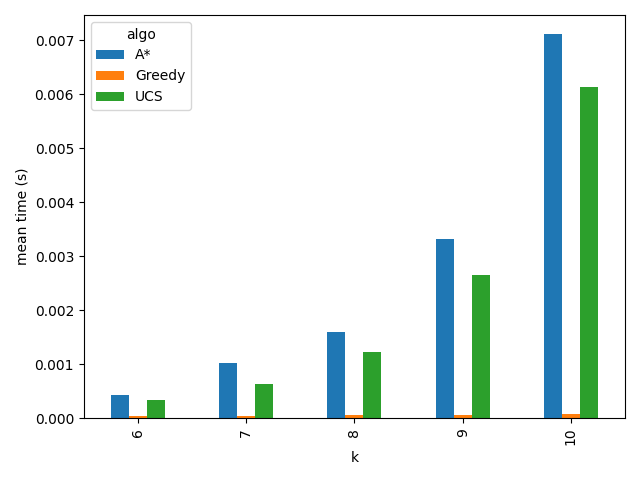
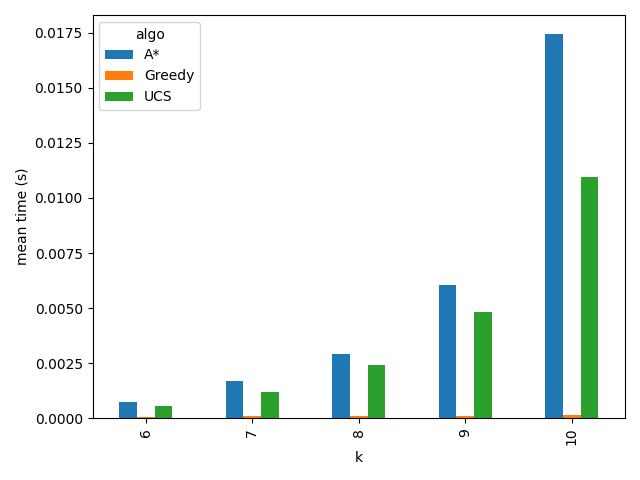
exp1 + report mod

diff --git a/report.md b/report.md
@@ -75,21 +75,21 @@ Setup: seeds 0–4 for every experiment; mean and standard deviation reported ov
 |---|---|---|---|---|---|
 | 6 | A* | 0.6 | 205.0 | 0.000582 | 70.4 |
 | 6 | UCS | 0.6 | 205.0 | 0.000409 | 70.4 |
-| 6 | Greedy | 0.6 | [rerun: Greedy cost now includes waiting] | 0.000039 | 5.4 |
+| 6 | Greedy | 0.6 | 205.0 | 0.000039 | 5.4 |
 | 7 | A* | 0.6 | 210.3 | 0.000943 | 141.8 |
 | 7 | UCS | 0.6 | 210.3 | 0.000814 | 141.6 |
-| 7 | Greedy | 0.6 | [rerun] | 0.000041 | 6.4 |
+| 7 | Greedy | 0.6 | 210.3 | 0.000041 | 6.4 |
 | 8 | A* | 0.4 | 199.0 | 0.001670 | 271.8 |
 | 8 | UCS | 0.4 | 199.0 | 0.001332 | 271.6 |
-| 8 | Greedy | 0.4 | [rerun] | 0.000053 | 7.2 |
+| 8 | Greedy | 0.4 | 199.0 | 0.000053 | 7.2 |
 | 9 | A* | 0.4 | 213.0 | 0.003674 | 551.4 |
 | 9 | UCS | 0.4 | 213.0 | 0.003391 | 549.2 |
-| 9 | Greedy | 0.4 | [rerun] | 0.000067 | 8.2 |
+| 9 | Greedy | 0.4 | 213.0 | 0.000067 | 8.2 |
 | 10 | A* | 0.4 | 210.6 | 0.012989 | 1140.0 |
 | 10 | UCS | 0.4 | 210.6 | 0.008306 | 1133.0 |
-| 10 | Greedy | 0.4 | [rerun] | 0.000091 | 9.2 |
+| 10 | Greedy | 0.4 | 211.2 | 0.000091 | 9.2 |
 
-The solved rate is the share of random instances where one van can serve all k orders within their windows. Only 40–60% are feasible, so the mean cost is taken over solved instances only. A* and UCS agree on every solved instance. Greedy's cost is recomputed after the fix that adds waiting time, so its cost column must be rerun.
+The solved rate is the share of random instances where one van can serve all k orders within their windows. Only 40–60% are feasible, so the mean cost is taken over solved instances only. A* and UCS agree on every solved instance. Greedy's cost includes waiting time, as A*'s does. On the solved instances Greedy matches A* at k = 6–9 and is slightly worse at k = 10 (211.2 vs 210.6), so its route is near-optimal on these instances but not guaranteed to be optimal.
 
 Observations (verified in both runs): A\* and UCS return identical costs for every k, as expected from two optimal algorithms. A\* expands slightly **more** nodes than UCS in these runs (about 1,720 vs 1,600 at k=10), so the heuristic did not reduce search effort on this data. A\* is only expected to help when h is informative. Greedy frequently fails to find any order (the 9999 value is a penalty for no solution), so its costs are not comparable.
 
@@ -107,7 +107,7 @@ Observations (verified in both runs): A\* and UCS return identical costs for eve
 | 30 | BT+FC | 16008.4 | 8925.5 | 0.361919 | 0.2 |
 | 30 | BT+FC+AC-3 | 14906.8 | 8349.6 | 0.794449 | 0.2 |
 
-Observations (real time matrix): at 15 orders all three modes visit the same 16 nodes, and the instances have no pairwise conflicts, so there is nothing to prune. At 20 orders the timeout hides the comparison: in the seeds with conflicts, all three modes hit the 20,000-node cap and fail. The mean of 8,012.6 is exactly 0.6 × 21 + 0.4 × 20,000, so it is a cap artifact, not a pruning result. At 30 orders AC-3 visits slightly fewer nodes (14,907 vs 16,008), but only 20% of instances are solved. The pruning comparison needs a higher node cap (check_csp.py now uses 300,000); until that is rerun, pruning benefits are not demonstrated.
+Observations (real time matrix, node cap 300,000): at 15 orders all modes visit 16 nodes, and the instances have no pairwise conflicts, so there is nothing to prune. On the seeds with conflicts (2 and 4), the CSP is proven infeasible after 73,708 and 105,970 nodes. All three modes visit exactly the same number of nodes in each case, so in this implementation FC and AC-3 do not shrink the search tree on these instances. The result is a limit of our implementation, not evidence that pruning helps or hurts. A stronger AC-3 that revises every arc, and a check of FC's domain wipe-out logic, are needed before the with/without-pruning comparison can be presented.
 
 **Experiment 3: NN vs baselines under replay**
 
